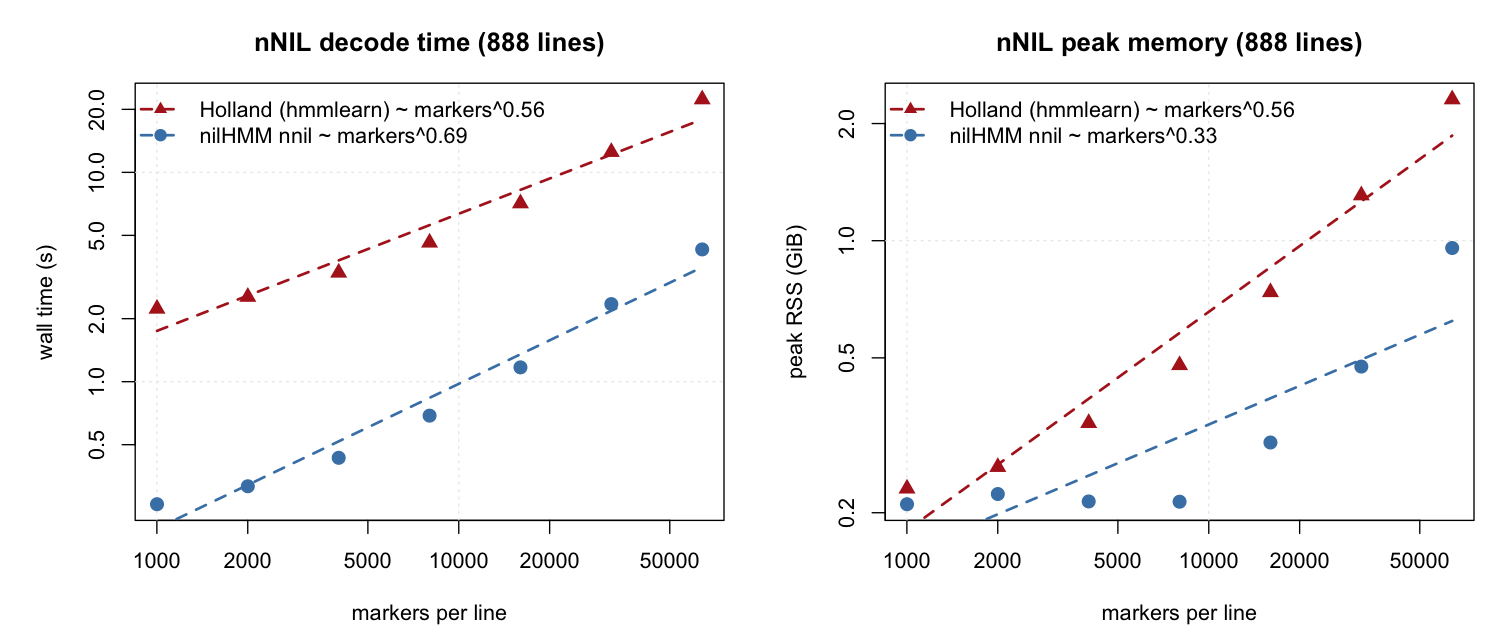
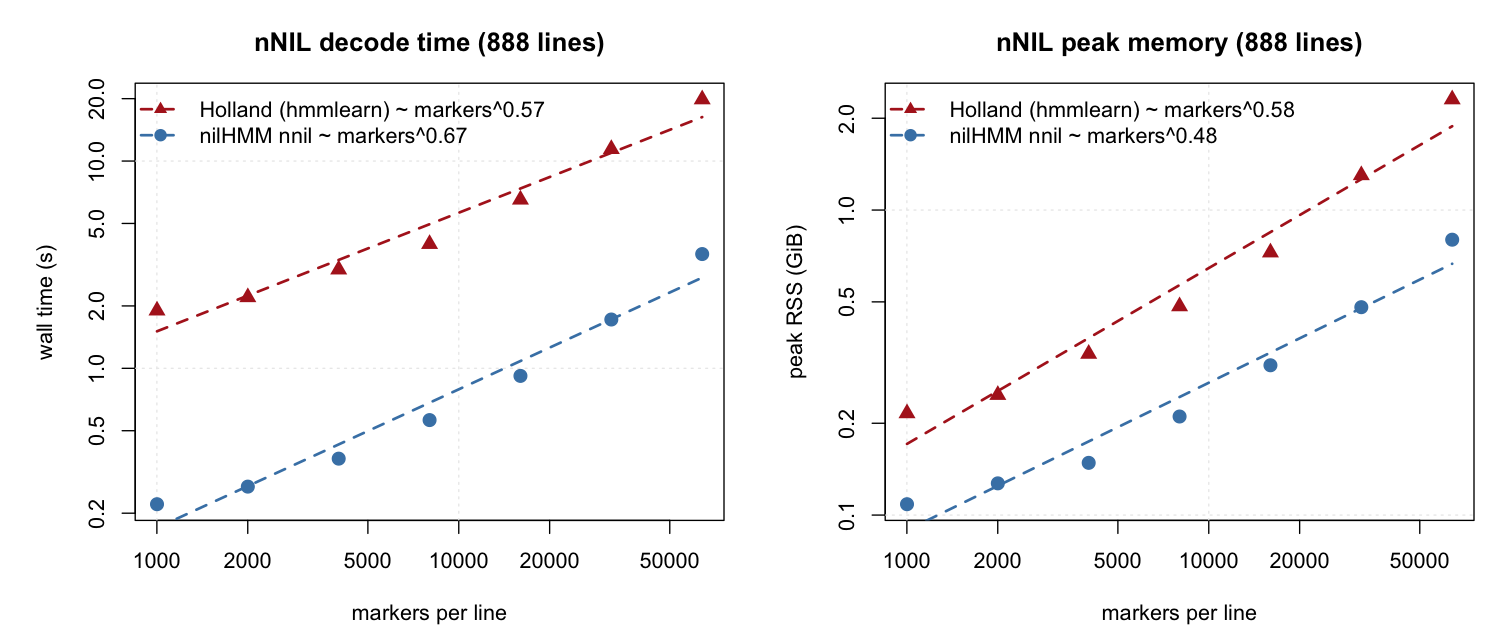
docs(optimization): split-first nNIL memory + RTIGER figures on one page, briefer captions
- §3.2: regenerate nnil_marker_scaling.png from the split-first workers (both cores'
  memory now scales cleanly/monotonically, no floor); prose updated (nilHMM ~0.8 GiB,
  hmmlearn ~2.3 GiB; each process loads only its pre-split marker set).
- Place fig:cpp-equiv and fig:cpp-scaling consecutively so they share a page again.
- Brief the RTIGER figure captions: drop what the titles/legends already show
  (markers, r=250, iteration counts, s/iteration, exponents, early/late colours).

Builds clean (0 overfull hboxes).

diff --git a/supplement_optimization.tex b/supplement_optimization.tex
@@ -323,18 +323,25 @@ mismatches), and fit emission parameters to float-summation tolerance. Compute:
 \begin{figure}[htbp]
 \centering
 \includegraphics[width=\textwidth]{figures/rtiger_equivalence_r250.png}
-\caption{Full panel (109{,}703 markers/sample), rigidity $r=250$, both cores run to
-convergence (4 iterations each). \textbf{Left:} per-iteration wall time, original
-Julia ($\sim$638~s/iteration, dominated by its recomputed length-$r$ emission window)
-vs nilHMM C++/Rcpp ($\sim$0.05~s/iteration, flat). \textbf{Right:} each iteration's
-\emph{EM parameter delta} (the maximum absolute change in the BetaBinomial emission
-parameters $(\alpha,\beta)$ between successive EM iterations, i.e.\ RTIGER's
-convergence criterion, not a log-likelihood change), C++ against original Julia on a
-log-log $1{:}1$ line (max relative difference $3\times10^{-3}$), early (yellow) to
-late (purple). The left panel illustrates the
-speed optimization; the right illustrates the faithful reproduction, the two cores
-descending the identical path to convergence.}
+\caption{Full panel, both cores run to convergence from the identical deterministic
+init. \textbf{Left:} per-iteration wall time; the original's cost is dominated by its
+recomputed length-$r$ emission window. \textbf{Right:} each iteration's \emph{EM
+parameter delta} (max $|\Delta(\alpha,\beta)|$ between EM iterations, RTIGER's
+convergence criterion, not a log-likelihood change), C++ against original Julia; the
+$1{:}1$ line (max relative difference $3\times10^{-3}$) shows the two cores descend
+the identical path to convergence.}
 \label{fig:cpp-equiv}
+\end{figure}
+
+\begin{figure}[htbp]
+\centering
+\includegraphics[width=\textwidth]{figures/rtiger_marker_scaling_r250.png}
+\caption{RTIGER scaling on the shared \emph{Arabidopsis} panel, original
+array-retaining Julia vs nilHMM C++/Rcpp; points are measurements (all five sizes),
+dashed lines the power-law fits. Left, per-iteration wall time; right, peak resident
+memory on cleanly thinned inputs, where the C++ core streams sufficient statistics
+and stays $\sim$6--7$\times$ lower. Compute: \code{scripts/rtiger\_r250\_plot.R}.}
+\label{fig:cpp-scaling}
 \end{figure}
 
 %----------------------------------------------------------------------
@@ -363,19 +370,6 @@ $\bigO(T)$), but on the sample axis the C++ scratch is $\bigO(T_{\max}\,s^2)$ ra
 than $\bigO(N\,T\,s^2)$, so the gap widens with sample count: a population-scale
 joint fit stays within a workstation's memory where the array-retaining original
 would not.
-
-\begin{figure}[htbp]
-\centering
-\includegraphics[width=\textwidth]{figures/rtiger_marker_scaling_r250.png}
-\caption{RTIGER scaling on the shared \emph{Arabidopsis} panel at rigidity $r=250$,
-original array-retaining Julia vs nilHMM C++/Rcpp. Points are measurements at all
-five sizes (both cores); dashed lines are the power-law fits. \textbf{Left:}
-per-iteration wall time (original $\sim$markers$^{1.69}$; C++
-$\sim$markers$^{0.98}$, linear). \textbf{Right:} peak resident memory on cleanly
-thinned inputs; the C++ core streams sufficient statistics and stays
-$\sim$6--7$\times$ lower. Compute: \code{scripts/rtiger\_r250\_plot.R}.}
-\label{fig:cpp-scaling}
-\end{figure}
 
 \begin{table}[htbp]
 \centering
@@ -473,12 +467,13 @@ states are emission-equal. Compute: \code{scripts/nnil\_equiv/07\_equiv\_sweep.R
 Both callers were run on the same memory-mapped PLINK \code{.bed} input, over an
 odd-index marker-density sweep of the full 888-line population
 (Fig.~\ref{fig:nnil-scaling}). At the full 64{,}025 markers nilHMM decodes the
-population in $\sim$4~s against $\sim$22~s for the \code{hmmlearn} caller (roughly
+population in $\sim$4~s against $\sim$20~s for the \code{hmmlearn} caller (roughly
 $5\times$ faster). Peak memory separates the two: nilHMM streams one line at a time
-from the memory-mapped \code{.bed} and stays near $\sim$1~GiB, whereas \code{hmmlearn}
+from the memory-mapped \code{.bed} and holds $\sim$0.8~GiB, whereas \code{hmmlearn}
 reads the genotype matrix into memory and reaches $2.3$~GiB, the gap widening with
-marker density (each measured process loads only its own marker set, so both curves
-are floored only by the language runtime at the sparsest sizes).
+marker density. Each measured process loads only its own pre-split marker set
+(\code{scripts/nnil\_equiv/materialize\_thinned\_bed.py}), so both curves scale
+cleanly with density.
 
 \begin{figure}[htbp]
 \centering